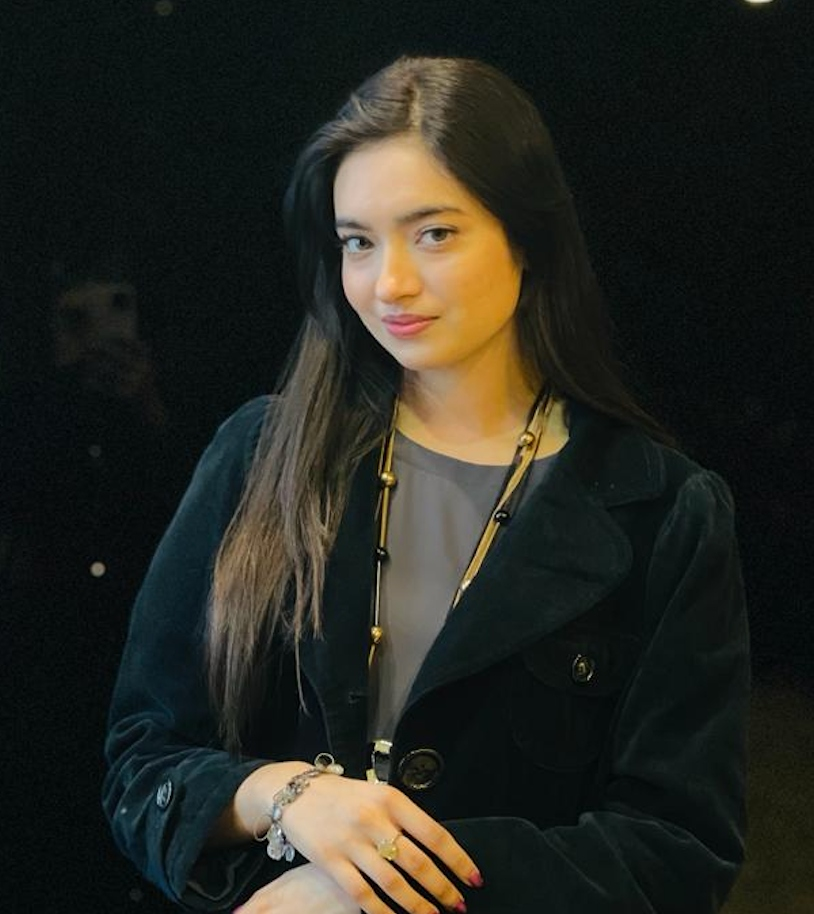
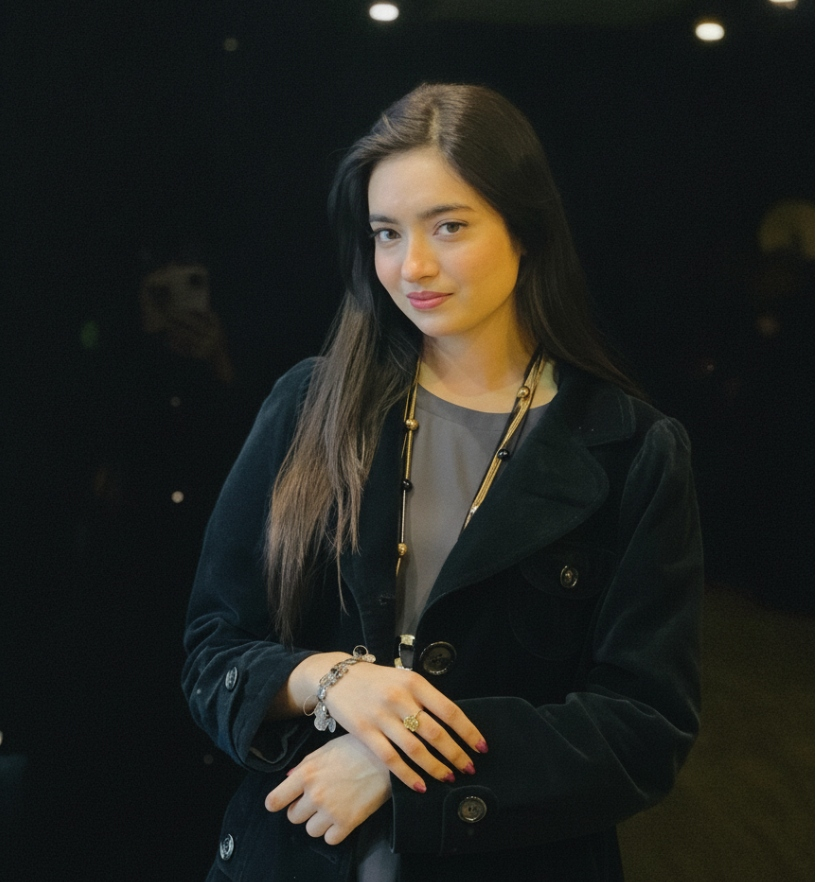
Sharpen founder photos to HD and brighten overlay header buttons
- Replaced both founder photos with enhanced HD versions (1183x1330 /
  1188x1324, up from 512x570 / 814x914) so the cards render crisp on
  high-DPI screens; same likeness, framing and colors.
- 'Open in new tab' and close buttons in the profile overlay were
  text-white/80 on a dark bar and hard to read; now solid white text
  on bg-white/10 with a stronger border.

diff --git a/src/components/home/FoundersSection.tsx b/src/components/home/FoundersSection.tsx
@@ -15,7 +15,7 @@ const founders: Founder[] = [
   {
     name: "Syed Hamza Mehdi",
     role: "Co-founder · Full-Stack Software Engineer",
-    photo: "/founders/hamza-mehdi.png",
+    photo: "/founders/hamza-mehdi.jpg",
     profile: "https://hamza-portfolio-livid.vercel.app/",
   },
   {
@@ -132,7 +132,7 @@ function ProfileOverlay({ founder, onClose }: { founder: Founder; onClose: () =>
               href={founder.profile}
               target="_blank"
               rel="noopener noreferrer"
-              className="inline-flex items-center gap-1.5 rounded-full border border-white/15 px-3 py-1.5 text-xs font-semibold text-white/80 transition hover:bg-white/10"
+              className="inline-flex items-center gap-1.5 rounded-full border border-white/30 bg-white/10 px-3 py-1.5 text-xs font-semibold text-white transition hover:bg-white/20"
             >
               Open in new tab
               <Icon name="arrow-ne" className="h-3 w-3" />
@@ -141,7 +141,7 @@ function ProfileOverlay({ founder, onClose }: { founder: Founder; onClose: () =>
               type="button"
               onClick={onClose}
               aria-label="Close profile"
-              className="inline-flex h-8 w-8 items-center justify-center rounded-full border border-white/15 text-white/80 transition hover:bg-white/10"
+              className="inline-flex h-8 w-8 items-center justify-center rounded-full border border-white/30 bg-white/10 text-white transition hover:bg-white/20"
             >
               <Icon name="close" className="h-4 w-4" />
             </button>
